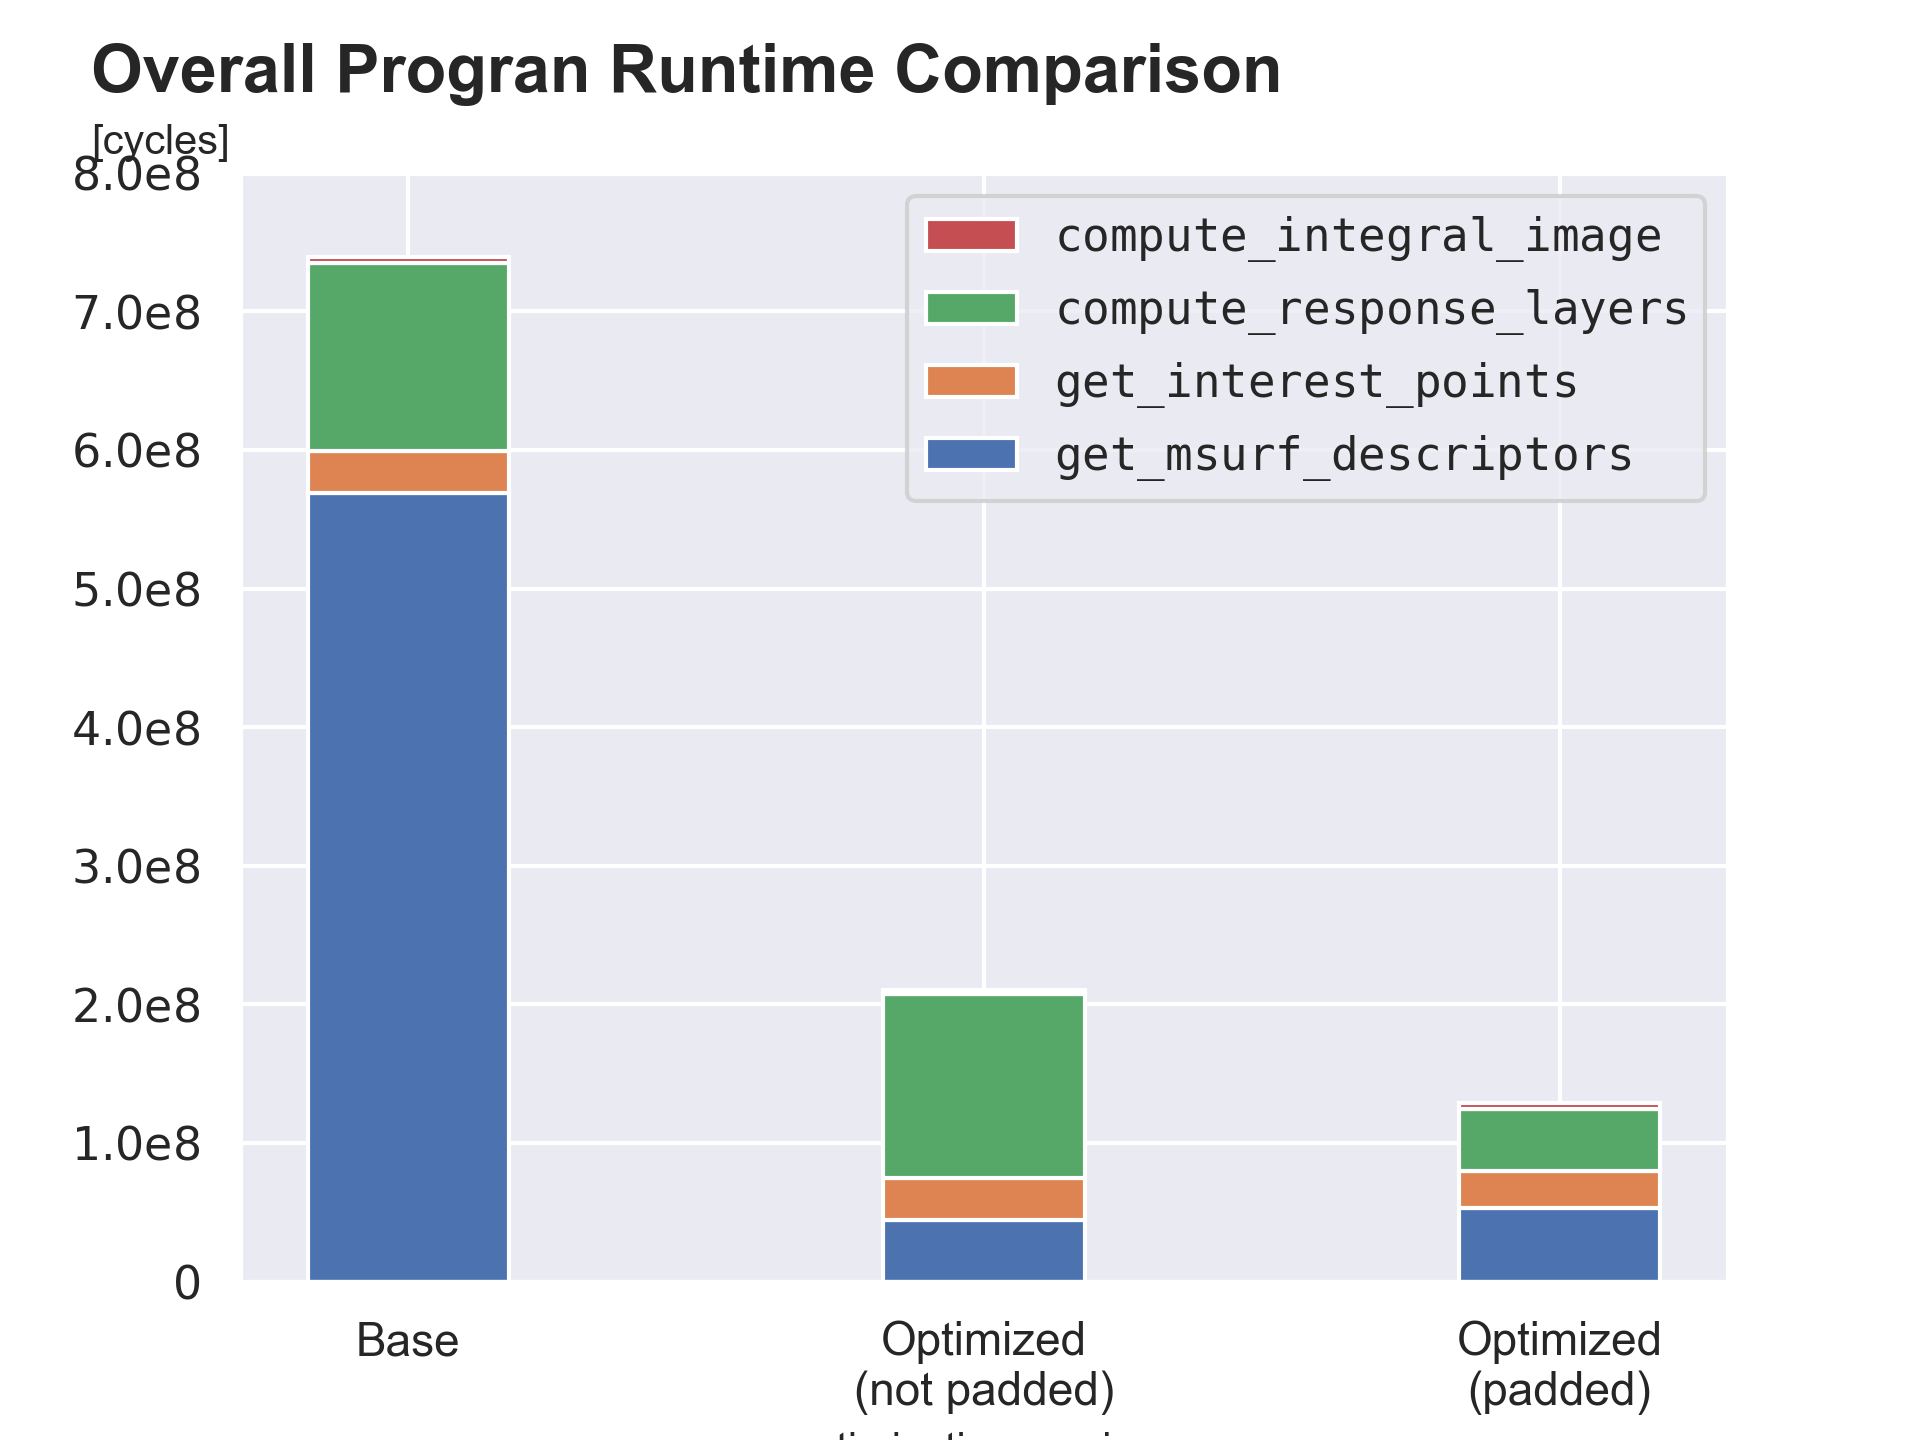
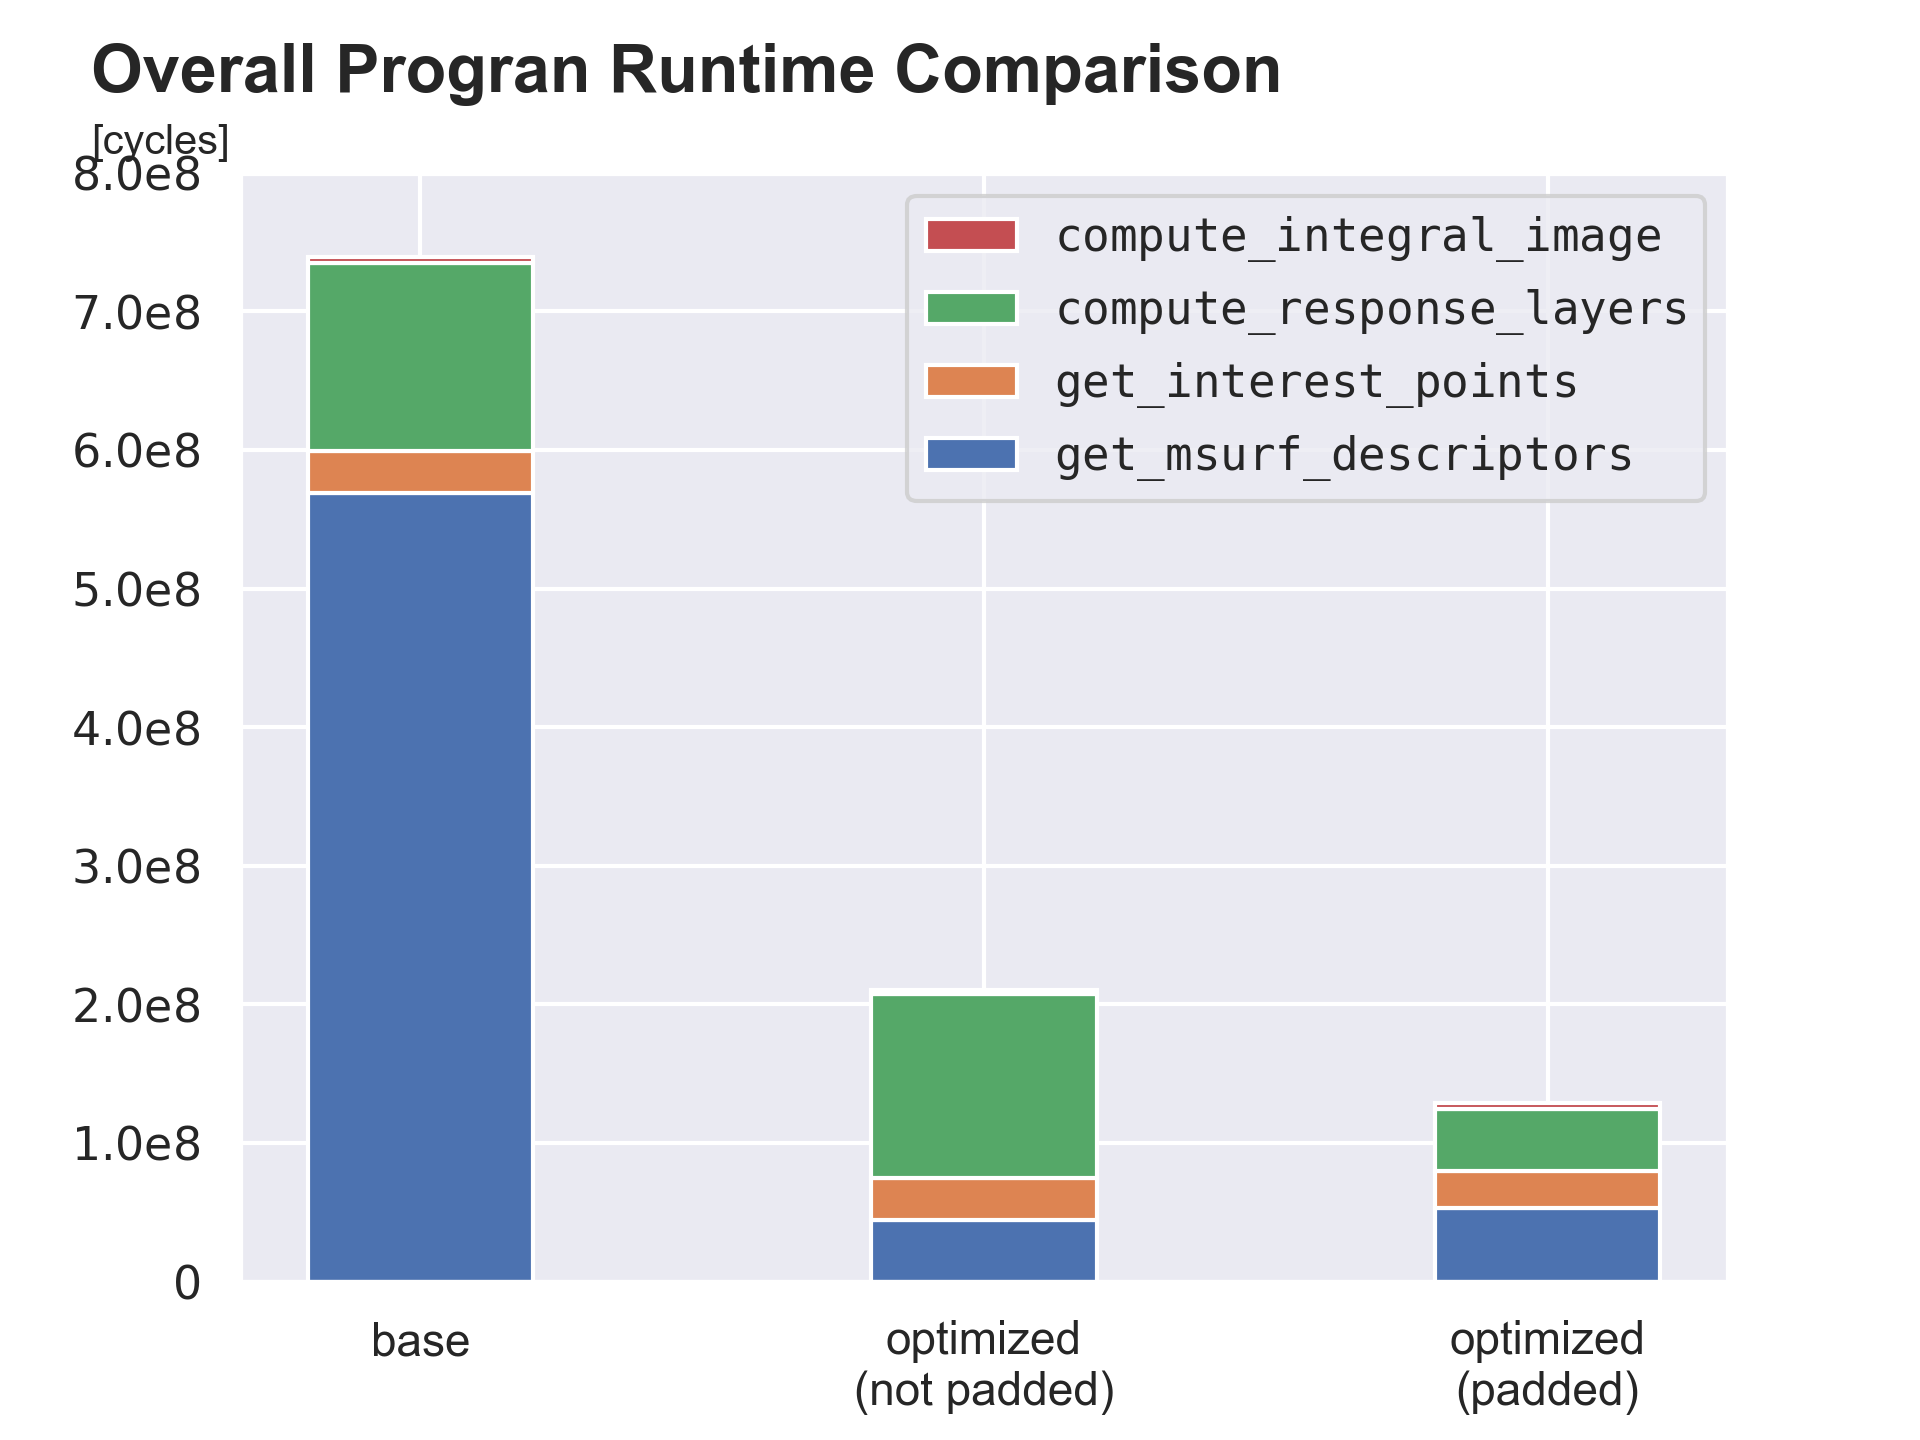
Updated stacked bar plots a bit

diff --git a/plots/runtime plots/overall_stacked_bar_plot.py b/plots/runtime plots/overall_stacked_bar_plot.py
@@ -23,7 +23,7 @@ outputFileName = 'overall_stacked_bar_plot.png'
 plt.title('Overall Progran Runtime Comparison',  x=-0.1, y=1.05, ha='left', fontsize=16, fontweight='bold')
 
 # Initializing plot axis labels
-plt.xlabel('optimization versions', fontsize=10)
+plt.xlabel('', fontsize=10)
 yl = plt.ylabel('[cycles]', fontsize=10, ha='left')
 yl.set_rotation(0)
 ax.yaxis.set_label_coords(-0.1, 1.01)
@@ -50,14 +50,14 @@ get_msurf_descriptors_cycles = [569110706, 44537542, 53325326]
 
 
 ind = np.arange(N)    # the x locations for the groups
-width = 0.35       # the width of the bars: can also be len(x) sequence
+width = 0.4           # the width of the bars: can also be len(x) sequence
 
 p1 = plt.bar(ind, get_msurf_descriptors_cycles, width, color=colors[0])
 p2 = plt.bar(ind, get_interest_points_cycles, width, bottom=get_msurf_descriptors_cycles, color=colors[1])
 p3 = plt.bar(ind, compute_response_layers_cycles, width, bottom=np.array(get_msurf_descriptors_cycles)+np.array(get_interest_points_cycles), color=colors[2])
 p4 = plt.bar(ind, compute_integral_image_cycles, width, bottom=np.array(get_msurf_descriptors_cycles)+np.array(get_interest_points_cycles)+np.array(compute_response_layers_cycles), color=colors[3])
 
-plt.xticks(ind, ('Base', 'Optimized\n(not padded)', 'Optimized\n(padded)'))
+plt.xticks(ind, ('base', 'optimized\n(not padded)', 'optimized\n(padded)'))
 plt.yticks(np.arange(0, 800000001, 100000000))
 plt.legend((p4[0], p3[0], p2[0], p1[0]), plotLabels)
 #plt.legend((p1[0], p2[0], p3[0]), ('1', '2', '3'))
